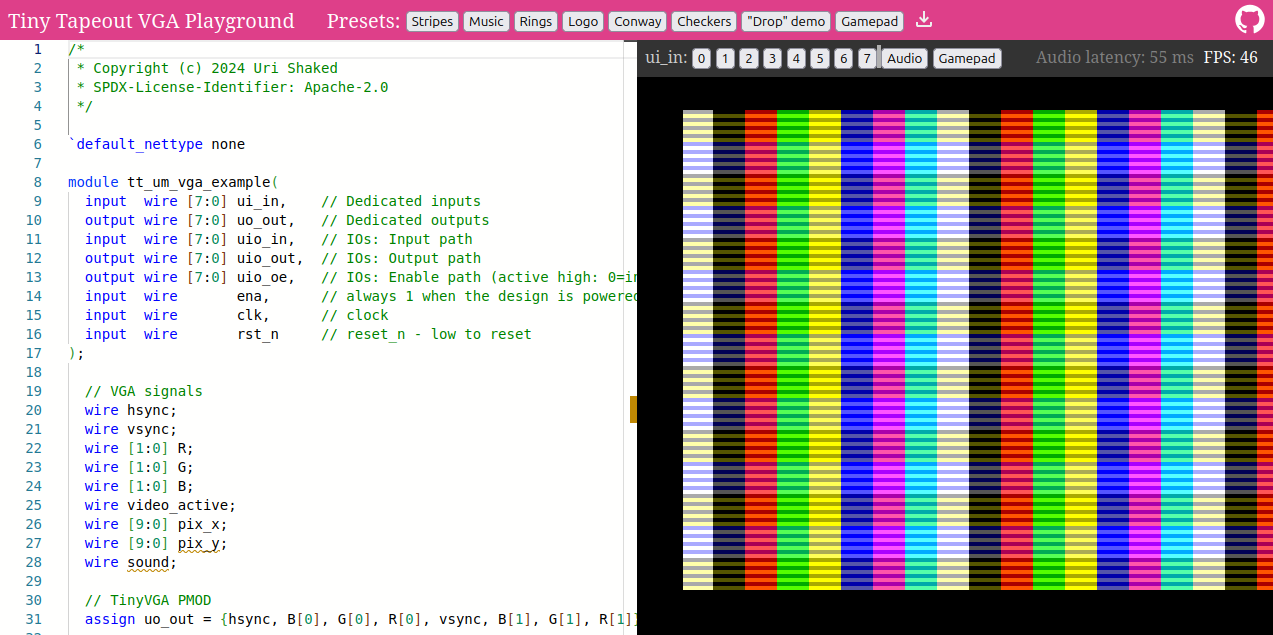
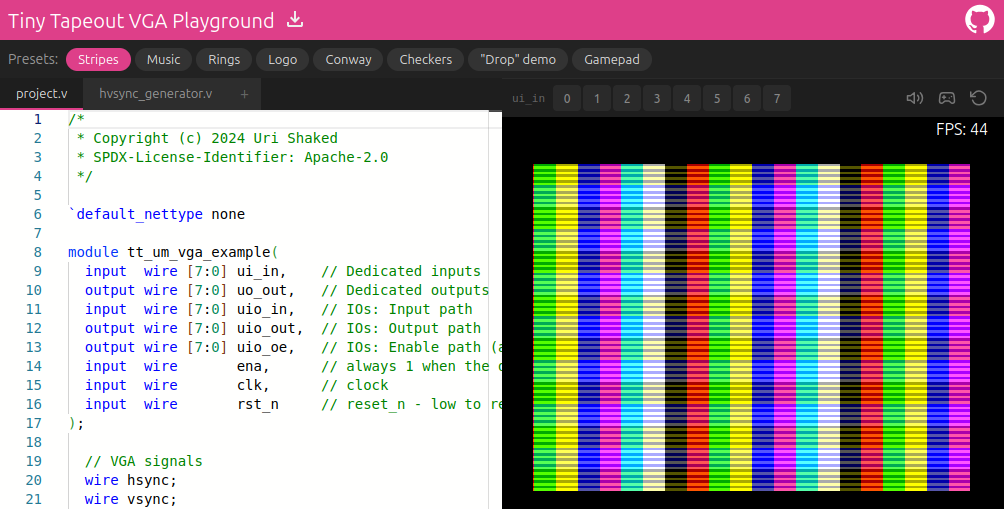
docs(guides/advanced-workshop): update vga playground images

diff --git a/content/guides/advanced-workshop/create-gds-from-vga-playground/_index.en.md b/content/guides/advanced-workshop/create-gds-from-vga-playground/_index.en.md
@@ -32,7 +32,7 @@ results.
 
 ### Download your project
 
-Download your VGA Playground project by clicking the download icon next to the presets.
+Download your VGA Playground project by clicking the download icon next to the title.
 {{< figure src="images/vgap-download-button.png" title="Download your VGA Playground project via the download button">}}
 
 You'll now have a zip file containing a collection of source files.
